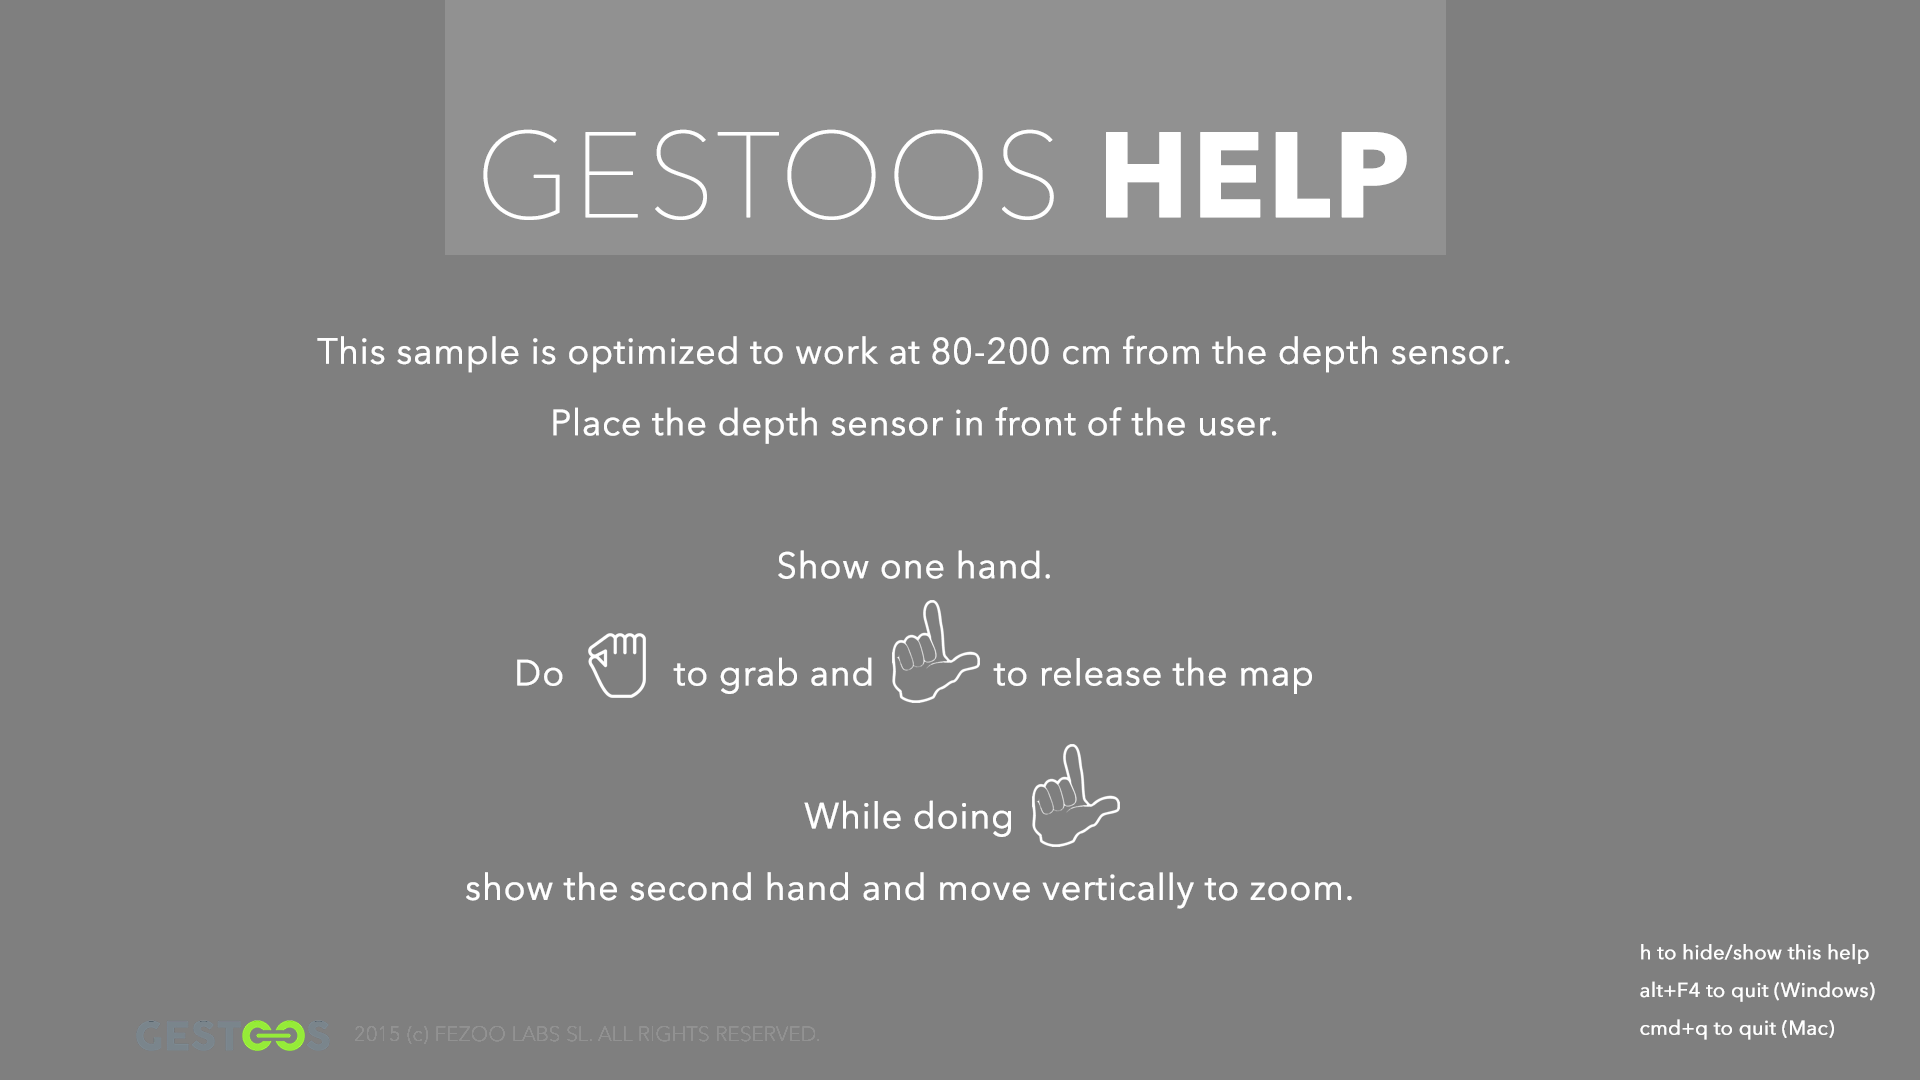
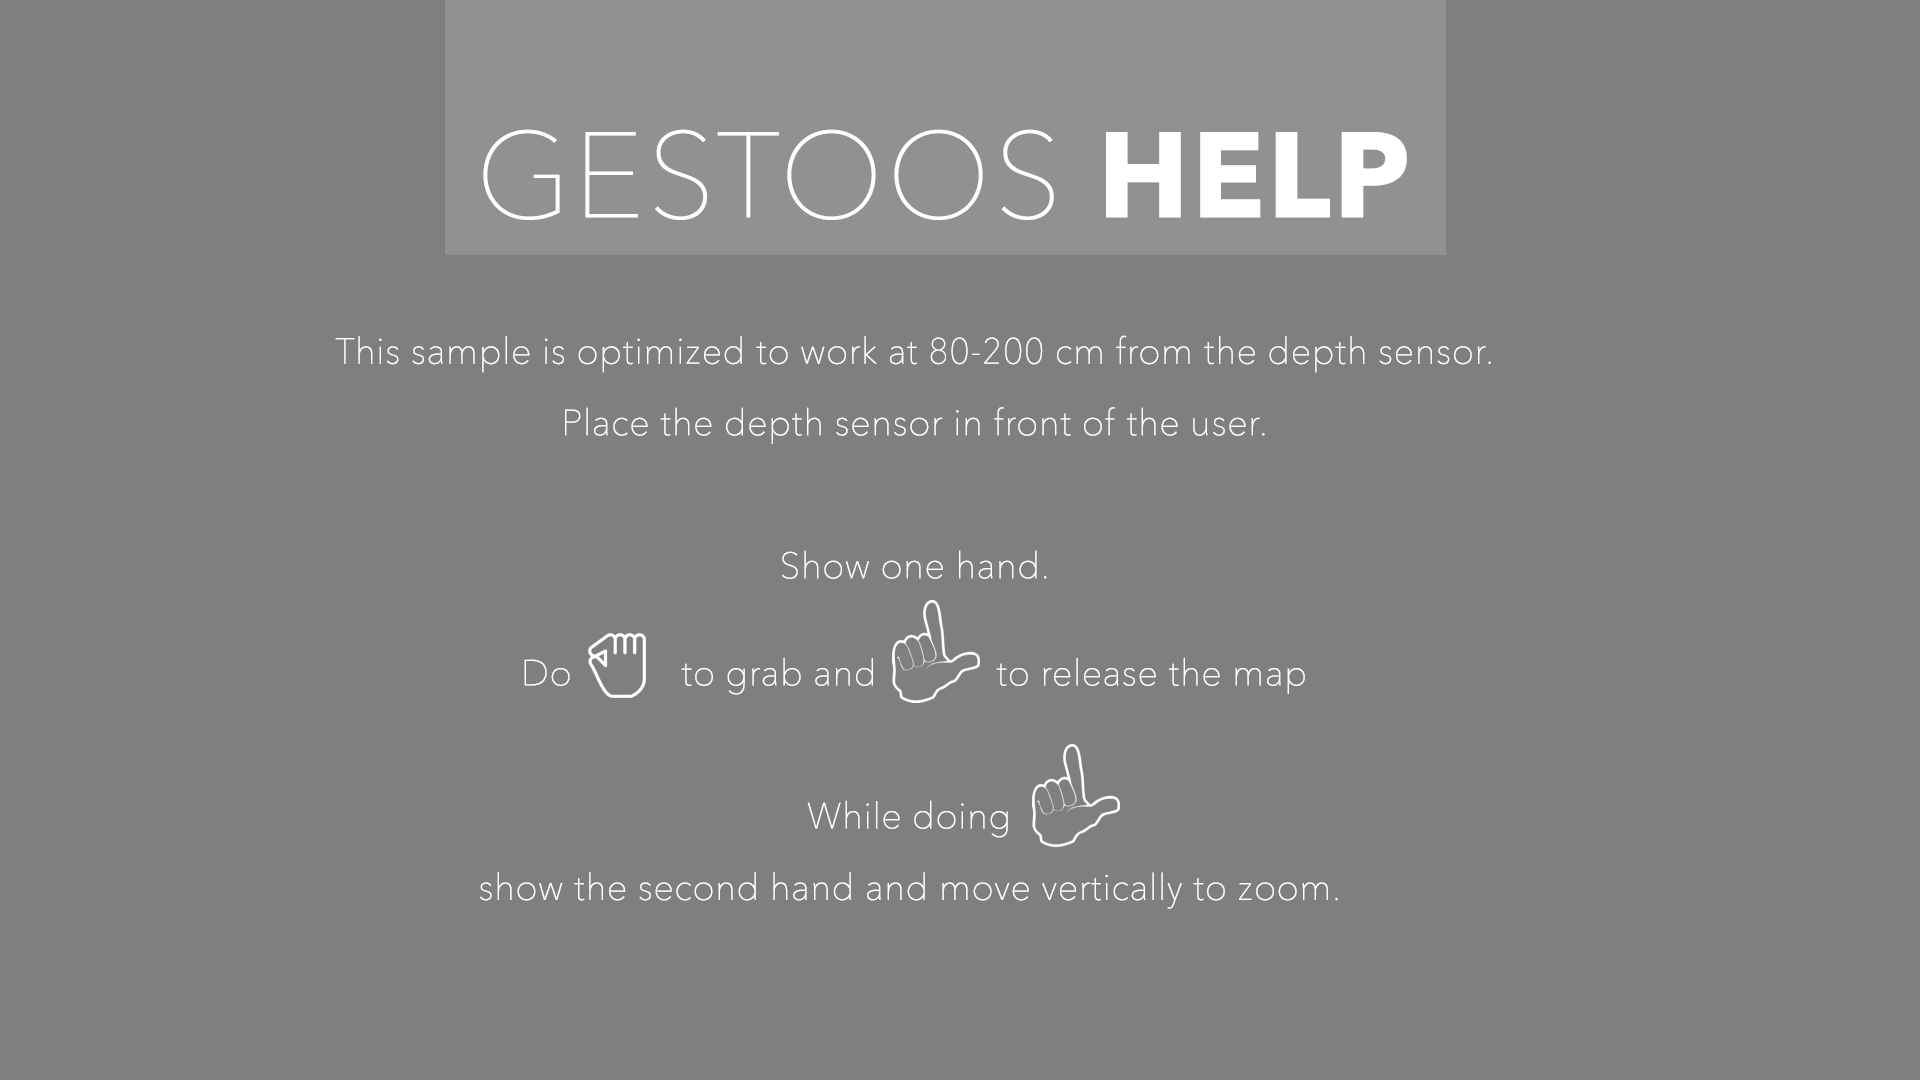
adding copyright and changed help messages

diff --git a/cindergestooslib/include/Help.h b/cindergestooslib/include/Help.h
@@ -65,6 +65,13 @@ public:
         {
             gl::draw(image, Rectf( 0, _y, getWindowWidth(), _y+getWindowHeight() ) );
         }
+
+        gl::drawStringCentered(	"Press 'h' to hide/show help", Vec2f( getWindowWidth() - 150, getWindowHeight() - 60), Color(0.7, 0.8, 0.9) );
+        gl::drawStringCentered(	"Alt+F4 to quit (Windows)", Vec2f( getWindowWidth() - 150, getWindowHeight() - 45), Color(0.7, 0.8, 0.9) );
+        gl::drawStringCentered(	"Cmd+Q to quit (MacOS)", Vec2f( getWindowWidth() - 150, getWindowHeight() - 30), Color(0.7, 0.8, 0.9) );
+
+        gl::drawString(	"Gestoos (c) 2015. All Rights Reserved to Fezoo Labs S.L.", Vec2f( 30, getWindowHeight() - 30), Color(0.7, 0.8, 0.9) );
+
     }
     
     
